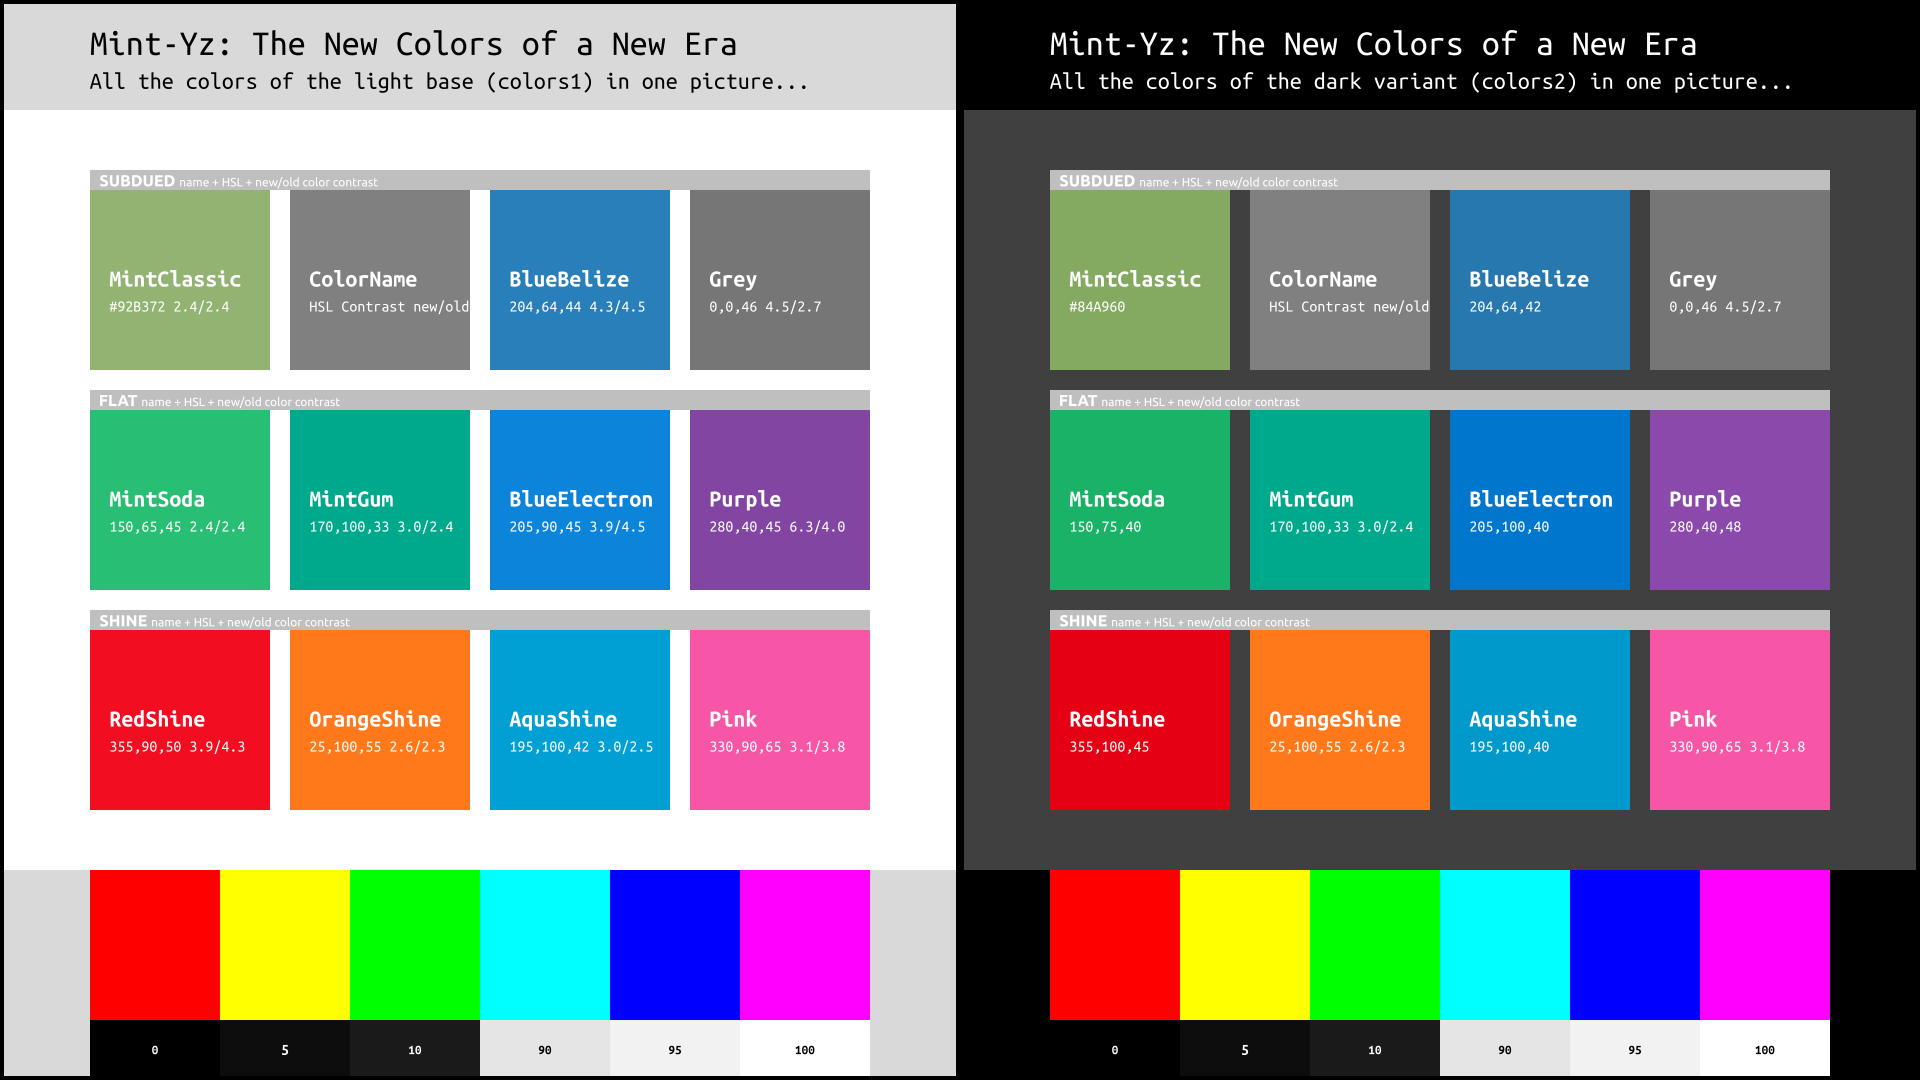
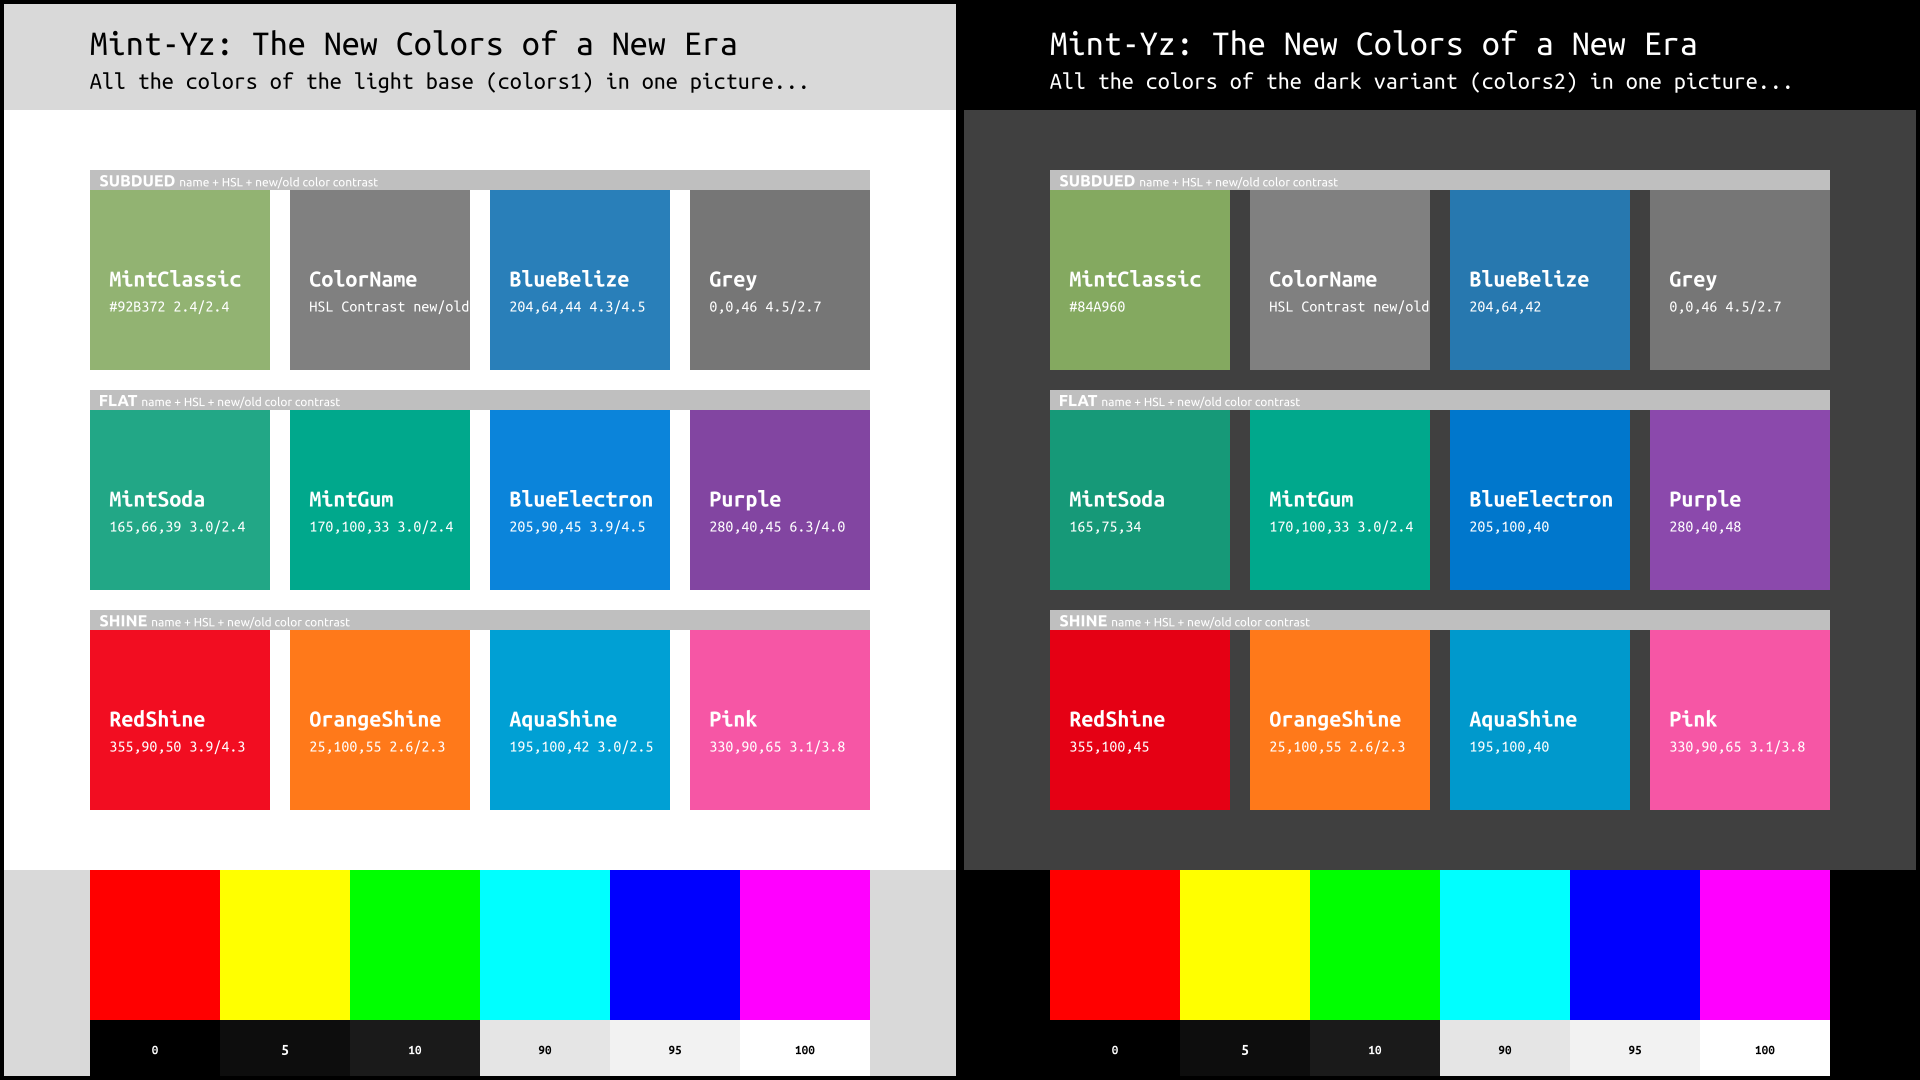
modified: constants.py (MintSoda)
modified:   Mint-Y-Colors/Mint-Y-Variations-compare-OLD.png
	modified:   Mint-Y-Colors/Mint-Y-Variations.png
	modified:   Mint-Y-Colors/Mint-Y-Variations.svg

Changed region(s): [[0.5312, 0.3667, 0.6562, 0.55]]

diff --git a/constants.py b/constants.py
@@ -20,8 +20,8 @@ y_hex_colors2["BlueBelize"] = "#2778AF"
 y_hex_colors1["Grey"] = "#767676"
 y_hex_colors2["Grey"] = "#767676"
 
-y_hex_colors1["MintSoda"] = "#28BE73"
-y_hex_colors2["MintSoda"] = "#1AB266"
+y_hex_colors1["MintSoda"] = "#22A786"
+y_hex_colors2["MintSoda"] = "#169978"
 
 y_hex_colors1["MintGum"] = "#00A88C"
 y_hex_colors2["MintGum"] = "#00A88C"
